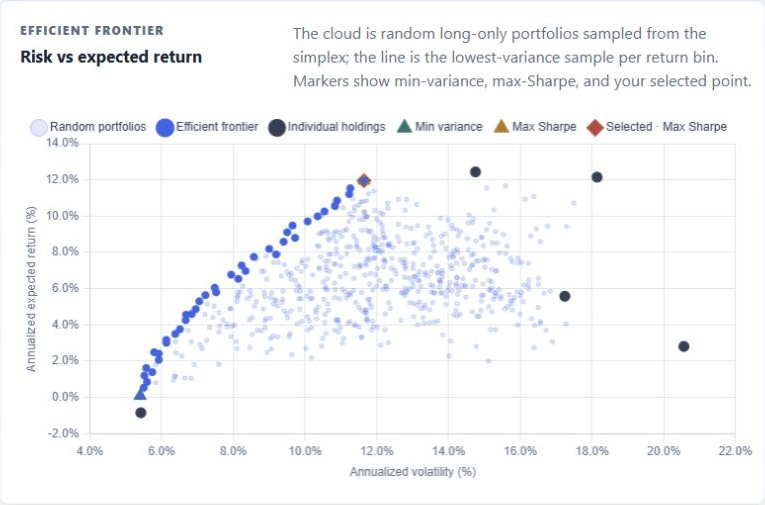
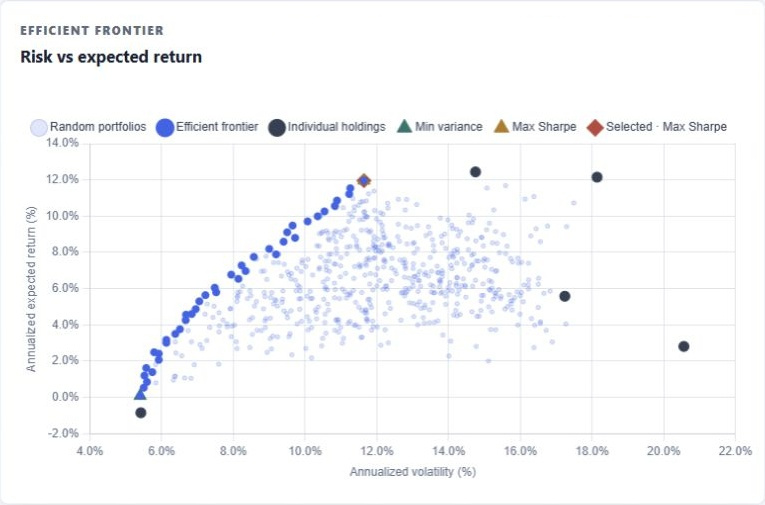
Refine portfolio captions and remove chart annotation

Changed region(s): [[0.3608, 0.0594, 0.9922, 0.1782]]

diff --git a/projects.html b/projects.html
@@ -222,17 +222,17 @@
               </p>
               <div class="project-screenshots">
                 <figure class="project-screenshot">
-                  <a href="assets/portfolio-efficient-frontier.jpg"
+                  <a href="assets/portfolio-efficient-frontier.jpg?v=2"
                     aria-label="View the efficient frontier screenshot at full size">
                     <img
-                      src="assets/portfolio-efficient-frontier.jpg"
+                      src="assets/portfolio-efficient-frontier.jpg?v=2"
                       width="765"
                       height="505"
                       loading="lazy"
                       alt="Risk versus expected return plot with a cloud of sampled portfolios, an efficient frontier, and markers for individual holdings and optimized allocations."
                     />
                   </a>
-                  <figcaption>Efficient frontier for an example ETF portfolio.</figcaption>
+                  <figcaption>Efficient frontier for a mixed ETF portfolio</figcaption>
                 </figure>
                 <figure class="project-screenshot">
                   <a href="assets/portfolio-monthly-returns.jpg"
@@ -245,7 +245,7 @@
                       alt="Monthly return heatmap for 2015 through 2025, showing January through September. Green cells show gains and red cells show losses, including an 11 percent drop in March 2020."
                     />
                   </a>
-                  <figcaption>Monthly returns, January–September detail.</figcaption>
+                  <figcaption>Monthly returns</figcaption>
                 </figure>
               </div>
               <a
